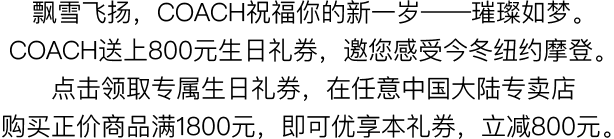
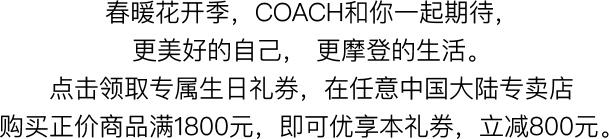
replace image

diff --git a/template/site/index.tpl.php b/template/site/index.tpl.php
@@ -26,10 +26,10 @@
         <img src="/dist/images/t1.png" id="titleImg" alt=""/>
     </div>
     <div class="slides">
-        <img class="slide current" src="/images/201611-slide/s1.jpg" alt=""/>
-        <img class="slide" src="/images/201611-slide/s2.jpg" alt=""/>
-        <img class="slide" src="/images/201611-slide/s3.jpg" alt=""/>
-        <img class="slide" src="/images/201611-slide/s4.jpg" alt=""/>
+        <img class="slide current" src="/images/201702-slide/slide-1.jpg" alt=""/>
+        <img class="slide" src="/images/201702-slide/slide-2.jpg" alt=""/>
+        <img class="slide" src="/images/201702-slide/slide-3.jpg" alt=""/>
+        <img class="slide" src="/images/201702-slide/slide-4.jpg" alt=""/>
     </div>
     <div class="t2">
         <img src="" id = "changeImg" alt=""/>
@@ -44,7 +44,7 @@
         var priceImgEle = $('#changeImg');
         var titleImg = $('#titleImg');
         if (type=='600') {
-            priceImgEle.attr('src',window.location.origin+'/images/t2.png');
+            priceImgEle.attr('src',window.location.origin+'/images/t2-600.png');
             titleImg.attr('src',window.location.origin+'/images/t1.png');
             var enabled =true;
             $('.button').on('click',function(){
